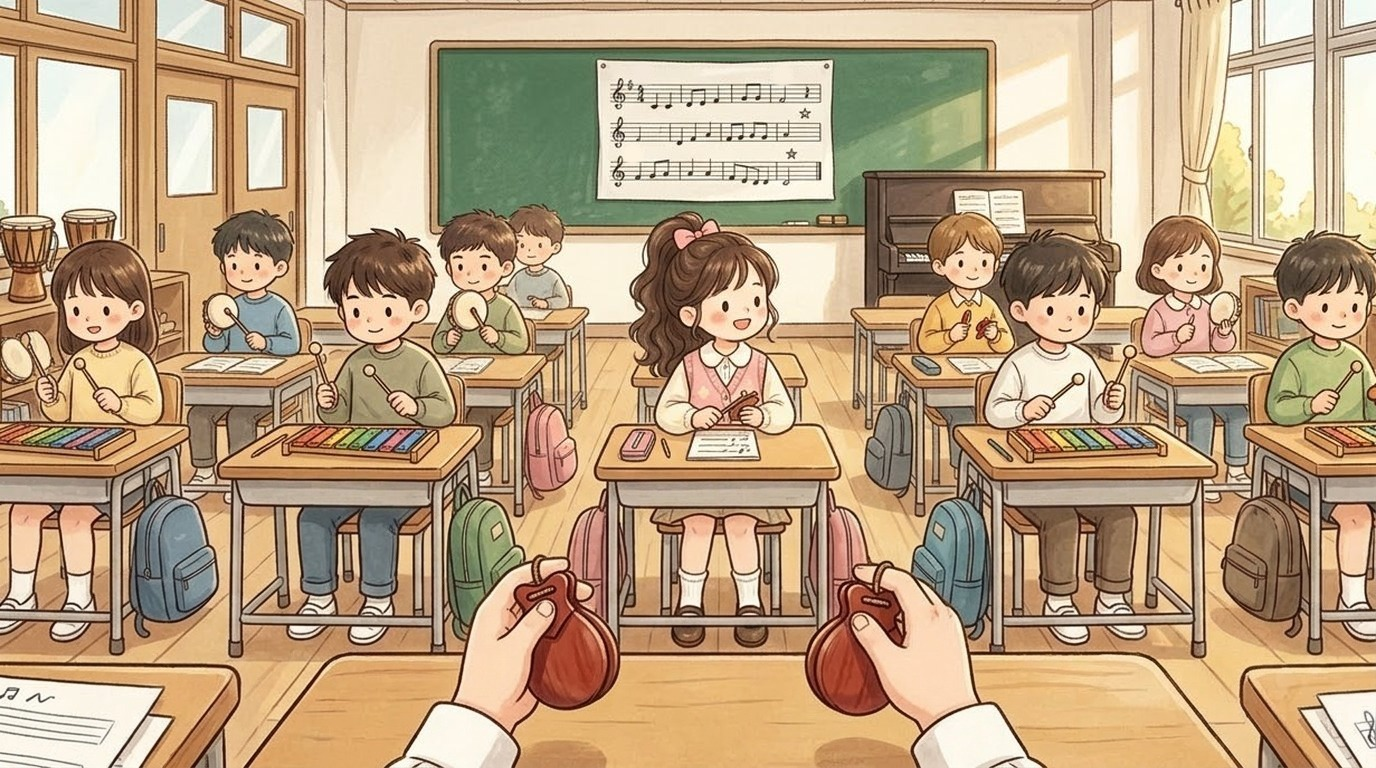
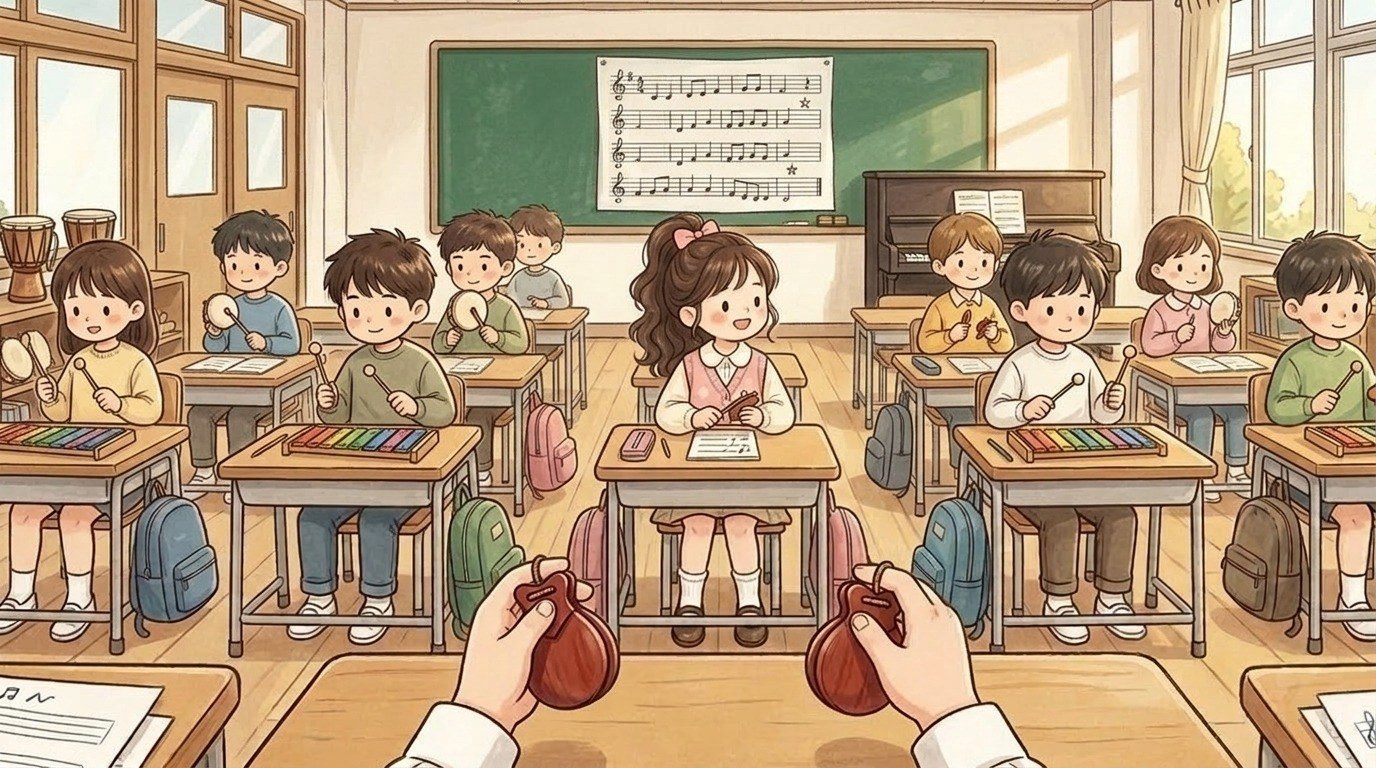
yena_08a: sheet music on the board is 16 measures with stars after the 8th and 16th (matches the story) (BUILD 1108073936)

diff --git a/index.html b/index.html
@@ -119,14 +119,14 @@ body,button{word-break:keep-all;overflow-wrap:break-word}
 <div id="fader"></div>
 <script>
 // same address, newest version: if the page this phone has kept is older than the one online, fetch the new one and reopen
-const BUILD='1107235124';
+const BUILD='1108073936';
 try{fetch(location.pathname,{cache:'no-store'}).then(r=>r.text()).then(t=>{const m=t.match(/const BUILD='(\d+)'/);if(m&&m[1]!==BUILD&&sessionStorage.getItem('upd')!==m[1]){sessionStorage.setItem('upd',m[1]);fetch(location.pathname,{cache:'reload'}).then(()=>location.reload())}}).catch(()=>{})}catch(e){}
 </script>
-<script src="i18n.js?v=1107235124"></script>
-<script src="i18n_prologue_v2.js?v=1107235124"></script>
-<script src="day2/i18n_engine.js?v=1107235124"></script>
-<script src="day2/data.js?v=1107235124"></script>
-<script src="day3/data.js?v=1107235124"></script>
+<script src="i18n.js?v=1108073936"></script>
+<script src="i18n_prologue_v2.js?v=1108073936"></script>
+<script src="day2/i18n_engine.js?v=1108073936"></script>
+<script src="day2/data.js?v=1108073936"></script>
+<script src="day3/data.js?v=1108073936"></script>
 <script>
 // ---------- data ----------
 const MW=1672,MH=941,KID=180;
@@ -569,35 +569,35 @@ function pickHero(){const m=document.getElementById('modal'),c=document.getEleme
  c.innerHTML=`<h2>${tr('전학생 반장되기')}</h2><p>${tr('한국말이 아직 서툰 전학생,<br>반장 선거에 나가다.')}</p><p style="margin-top:14px">${tr('누구로 할까요?')}</p>${(()=>{const s=loadSave();return s&&s.day>=2&&s.mode===UI+'-'+LANG?`<p><button class="big" id="cont">${tr('{n}일차부터 이어 하기').replace('{n}',s.day)}</button></p>`:''})()}<div class="pick heroes"><button data-h="hero_f"><img src="faces/hero_f_smile.jpg" alt="여자 주인공">${heroName(1)}</button><button data-h="hero_m"><img src="faces/hero_m_smile.jpg" alt="남자 주인공">${heroName(0)}</button></div>`;
  m.classList.add('on');{const cb=document.getElementById('cont');if(cb)cb.onclick=()=>{const s=loadSave();HERO=s.hero;Object.assign(HEART,s.heart||{});(s.found||[]).forEach(k=>FOUND.add(k));HEART_D1={...HEART};chime();(typeof contGame==='function'?contGame(s):startDay(Math.min(s.day,Object.keys(window.D3||{}).length?3:2)))}}c.querySelectorAll('.pick button').forEach(b=>b.onclick=()=>{HERO=b.dataset.h;m.classList.remove('on');chime();bgm('day');load('home_am');say([['nar','','이사 온 다음 날 아침. 아직 풀지 못한 상자들이 쌓여 있다.'],['think','sad','(오늘부터 새 학교야. 여기 말도 아직 서툰데…….)'],['think','smile','({m}한테 인사하고 학교 가야지.)']],morning)})}
 </script>
-<script src="day2/engine.js?v=1107235124"></script>
-<script src="day2/ep_minho.js?v=1107235124"></script>
-<script src="day2/meet.js?v=1107235124"></script>
-<script src="day2/ep_sua.js?v=1107235124"></script>
-<script src="day2/ep_hangyeol.js?v=1107235124"></script>
-<script src="day2/ep_siwoo.js?v=1107235124"></script>
-<script src="day2/ep_haram.js?v=1107235124"></script>
-<script src="day2/ep_jiho.js?v=1107235124"></script>
-<script src="day2/ep_hyeeun.js?v=1107235124"></script>
-<script src="day2/ep_haneul.js?v=1107235124"></script>
-<script src="day2/ep_junho.js?v=1107235124"></script>
-<script src="day2/ep_yuna.js?v=1107235124"></script>
-<script src="day2/ep_yena.js?v=1107235124"></script>
-<script src="day2/ep_haeun.js?v=1107235124"></script>
-<script src="day2/ep_youngmin.js?v=1107235124"></script>
-<script src="day2/ep_seah.js?v=1107235124"></script>
-<script src="day2/ep_jihoon.js?v=1107235124"></script>
-<script src="words_ja_ru.js?v=1107235124"></script>
-<script src="day2/mybag.js?v=1107235124"></script>
-<script src="day2/wordpics.js?v=1107235124"></script>
-<script src="day2/spots.js?v=1107235124"></script>
-<script src="day2/textfit.js?v=1107235124"></script>
-<script src="day2/tester.js?v=1107235124"></script>
-<script src="day2/ux.js?v=1107235124"></script>
-<script src="day2/tapword.js?v=1107235124"></script>
-<script src="day2/review.js?v=1107235124"></script>
-<script src="day2/plane.js?v=1107235124"></script>
-<script src="day2/ep_ending.js?v=1107235124"></script>
-<script src="day2/ending.js?v=1107235124"></script>
+<script src="day2/engine.js?v=1108073936"></script>
+<script src="day2/ep_minho.js?v=1108073936"></script>
+<script src="day2/meet.js?v=1108073936"></script>
+<script src="day2/ep_sua.js?v=1108073936"></script>
+<script src="day2/ep_hangyeol.js?v=1108073936"></script>
+<script src="day2/ep_siwoo.js?v=1108073936"></script>
+<script src="day2/ep_haram.js?v=1108073936"></script>
+<script src="day2/ep_jiho.js?v=1108073936"></script>
+<script src="day2/ep_hyeeun.js?v=1108073936"></script>
+<script src="day2/ep_haneul.js?v=1108073936"></script>
+<script src="day2/ep_junho.js?v=1108073936"></script>
+<script src="day2/ep_yuna.js?v=1108073936"></script>
+<script src="day2/ep_yena.js?v=1108073936"></script>
+<script src="day2/ep_haeun.js?v=1108073936"></script>
+<script src="day2/ep_youngmin.js?v=1108073936"></script>
+<script src="day2/ep_seah.js?v=1108073936"></script>
+<script src="day2/ep_jihoon.js?v=1108073936"></script>
+<script src="words_ja_ru.js?v=1108073936"></script>
+<script src="day2/mybag.js?v=1108073936"></script>
+<script src="day2/wordpics.js?v=1108073936"></script>
+<script src="day2/spots.js?v=1108073936"></script>
+<script src="day2/textfit.js?v=1108073936"></script>
+<script src="day2/tester.js?v=1108073936"></script>
+<script src="day2/ux.js?v=1108073936"></script>
+<script src="day2/tapword.js?v=1108073936"></script>
+<script src="day2/review.js?v=1108073936"></script>
+<script src="day2/plane.js?v=1108073936"></script>
+<script src="day2/ep_ending.js?v=1108073936"></script>
+<script src="day2/ending.js?v=1108073936"></script>
 <script>
 // the goal shows big for a few seconds, then folds into a small pill (tap it to open it again)
 {const g=document.getElementById('goal');let t=null;const big=()=>{g.classList.remove('mini');clearTimeout(t);t=setTimeout(()=>g.classList.add('mini'),4000)};
